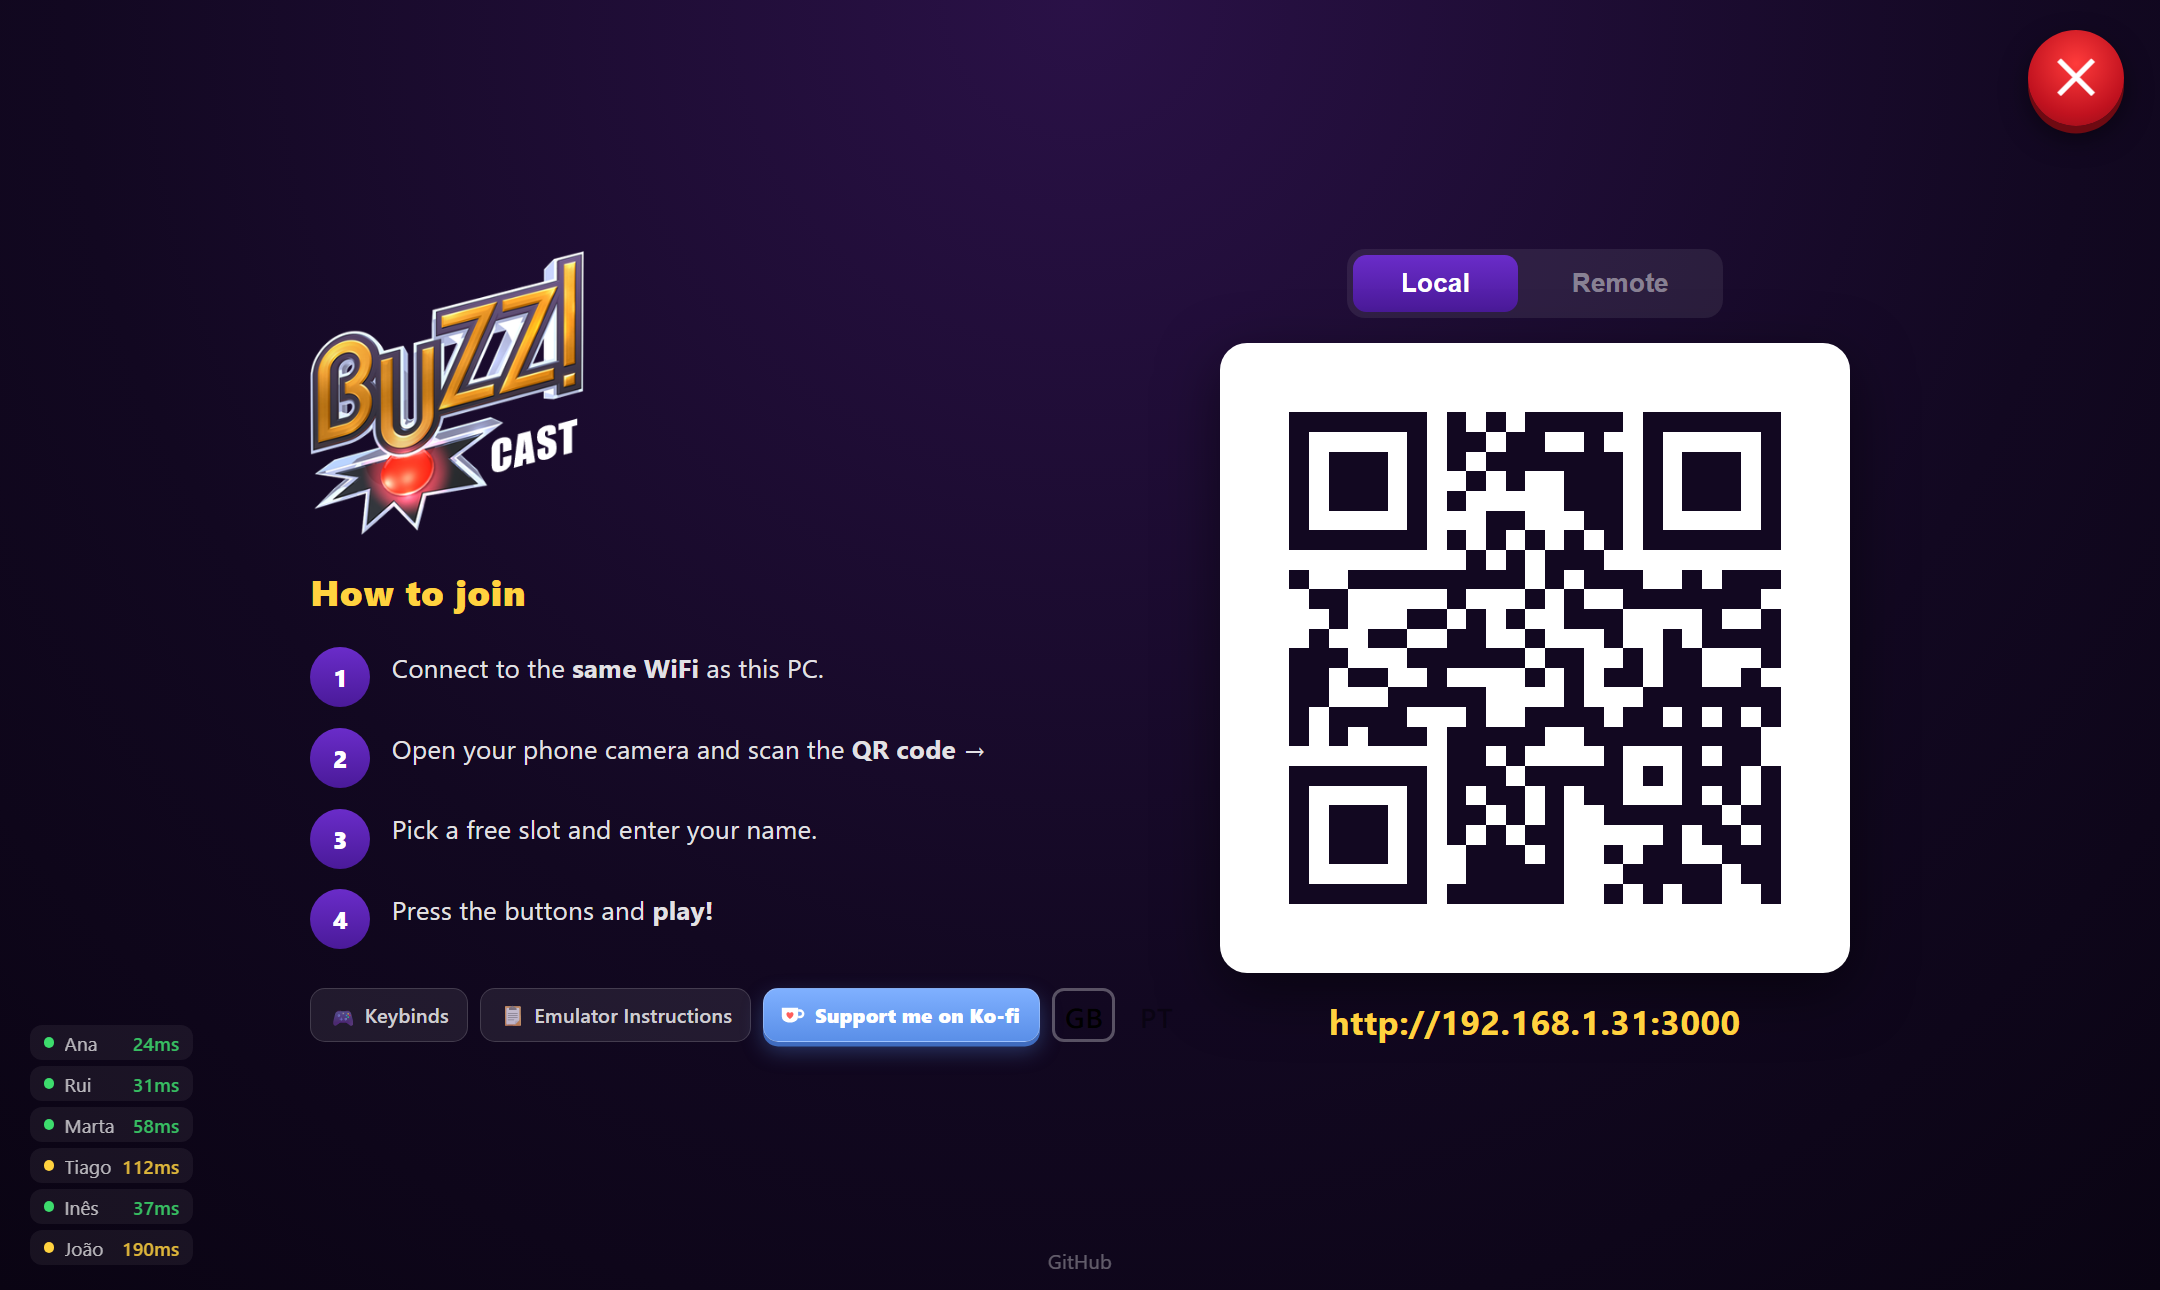
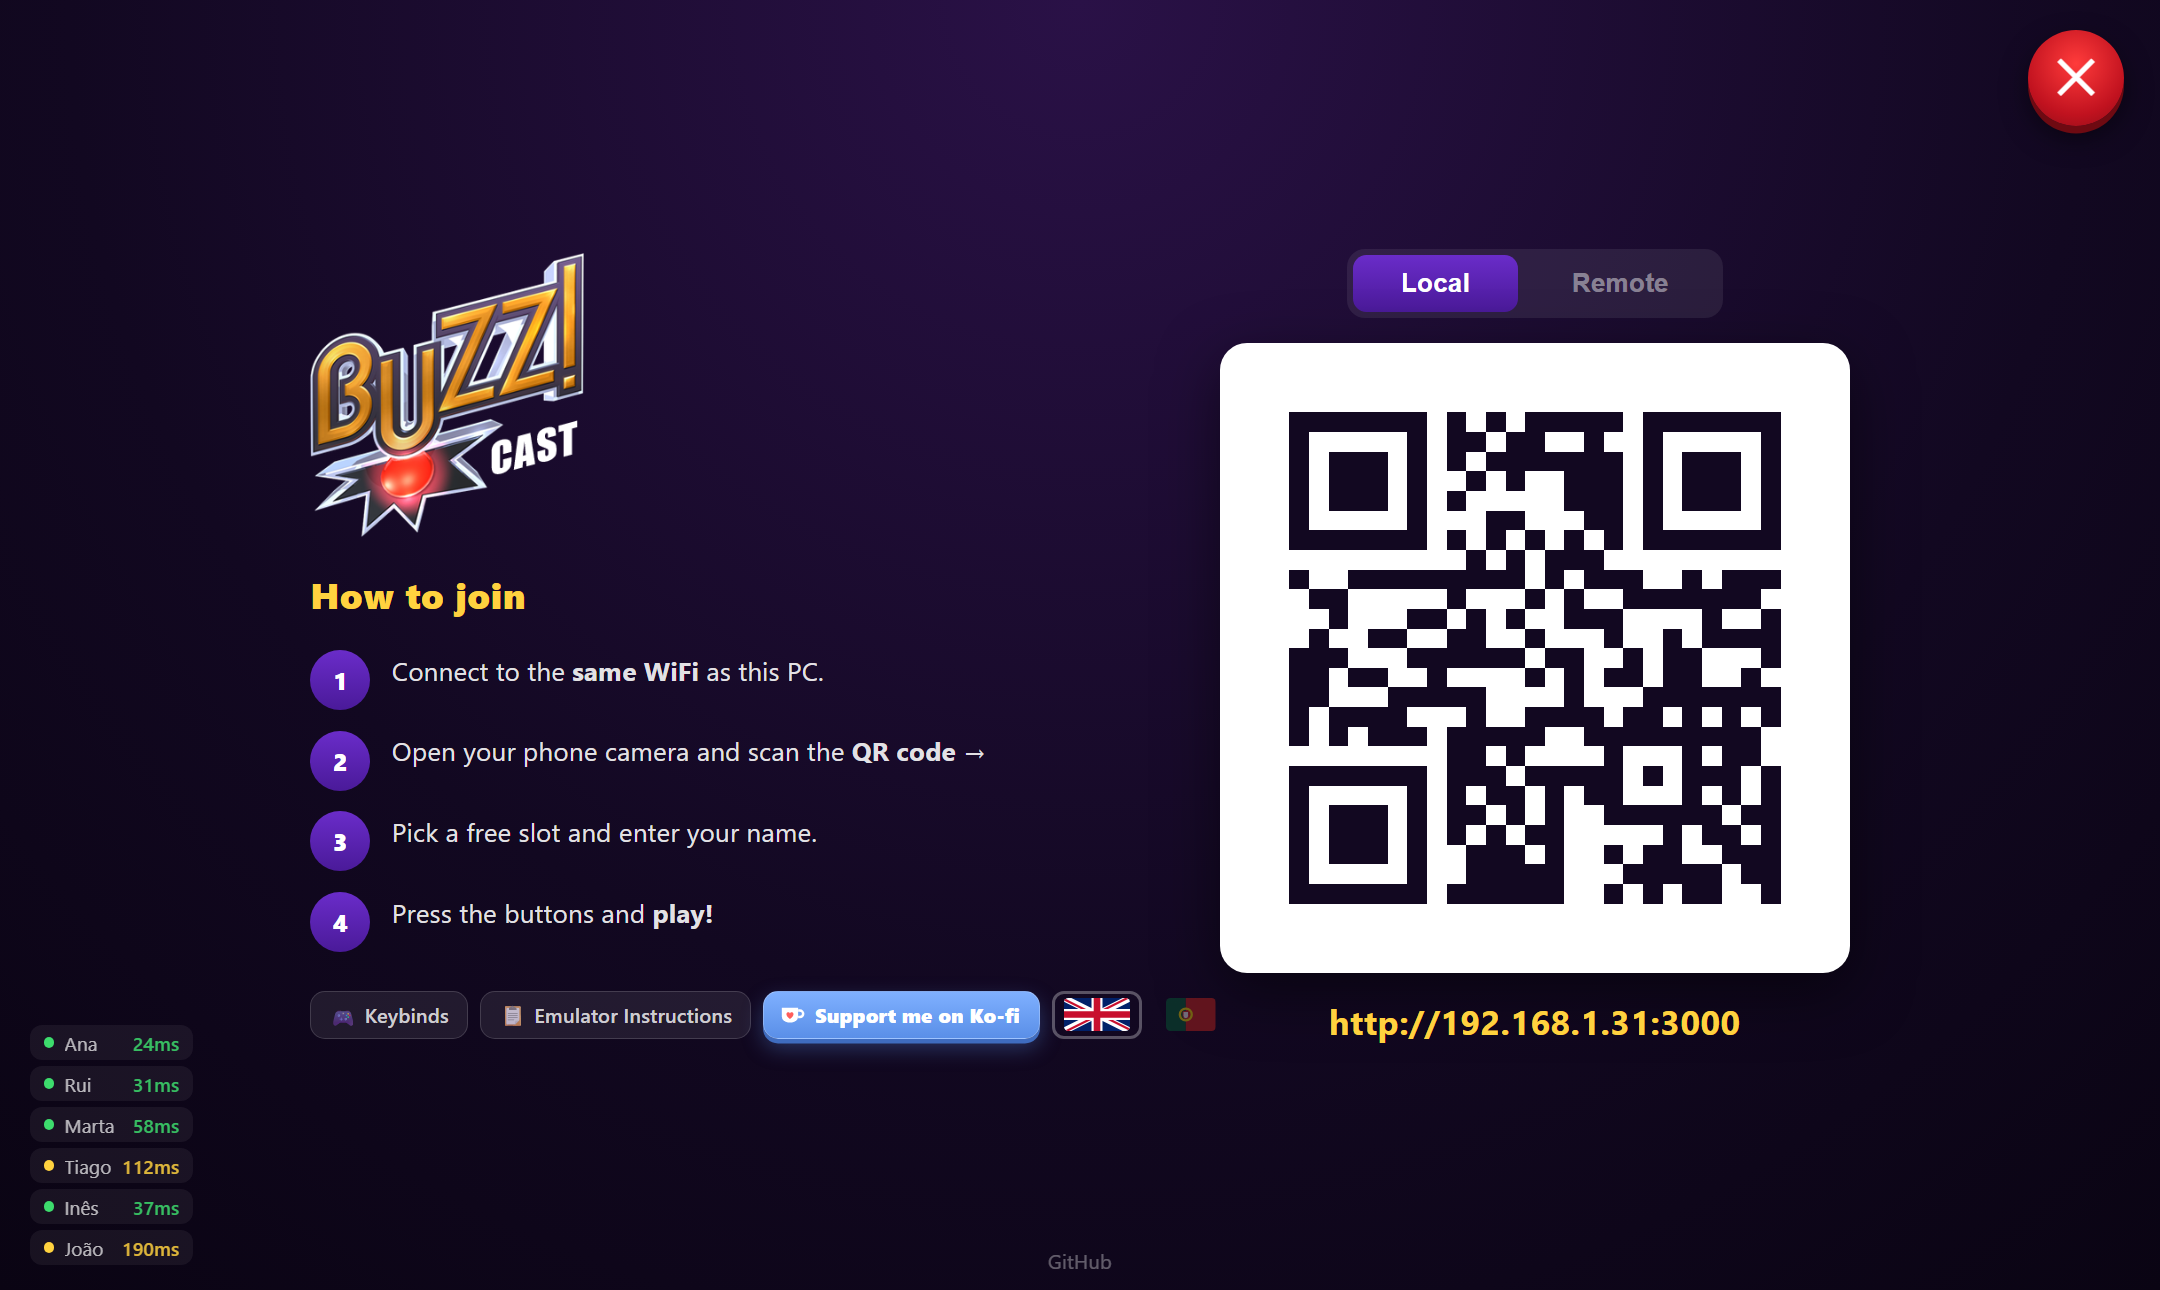
SVG language flags; README disclaimer; refreshed screenshots
- Replace the 🇬🇧/🇵🇹 emoji flags (rendered as "GB"/"PT" letters on
  Windows) with inline SVG flags on the host, lobby and instructions pages.
- README: Disclaimer section at the bottom (unofficial fan project; Buzz!
  name, logo and artwork belong to Sony / their owners, used in good faith
  for identification only; MIT covers BuzzCast's own code only; no game
  content distributed; takedown contact via issues). License section now
  points to it.
- Re-shot cover, phones and host screenshots with the new flags.

diff --git a/src/bun-server.js b/src/bun-server.js
@@ -273,6 +273,7 @@ async function hostPage() {
     .flag-btn { background: none; border: 2px solid transparent; cursor: pointer; font-size: clamp(1.1rem, 2vw, 1.6rem); padding: 3px 6px; border-radius: 8px; opacity: 0.4; transition: opacity 0.15s, border-color 0.15s; line-height: 1; }
     .flag-btn:hover { opacity: 0.8; }
     .flag-btn.active { opacity: 1; border-color: rgba(255,255,255,0.3); }
+    .flag-btn svg { display: block; height: clamp(16px, 1.8vw, 22px); width: auto; border-radius: 3px; }
     .close-btn { position: fixed; top: 20px; right: 24px; width: clamp(48px, 5vw, 64px); height: clamp(48px, 5vw, 64px); border-radius: 50%; border: none; background: radial-gradient(circle at 50% 35%, #ff3b3b, #c1121f 65%, #8e0d18 100%); box-shadow: 0 5px 0 #6e0a12, 0 8px 18px rgba(0,0,0,0.5); color: #fff; font-size: clamp(1.4rem, 2.4vw, 2rem); font-weight: 700; cursor: pointer; display: flex; align-items: center; justify-content: center; transition: transform 0.08s, box-shadow 0.08s; z-index: 100; line-height: 1; }
     .close-btn:active { transform: translateY(4px); box-shadow: 0 1px 0 #6e0a12, 0 3px 8px rgba(0,0,0,0.4); }
     .right { display: flex; flex-direction: column; align-items: center; gap: 2vh; flex-shrink: 0; }
@@ -379,8 +380,8 @@ async function hostPage() {
         <button class="pill-btn" id="kb-btn" onclick="openKeybinds()">🎮 <span id="kb-btn-label"></span></button>
         <button class="pill-btn" id="instr-btn" onclick="openInstructions()">📋 <span id="instr-btn-label"></span></button>
         <a class="kofi-btn" href="https://ko-fi.com/bacoinz" target="_blank" rel="noopener" title="ko-fi.com/bacoinz"><svg viewBox="0 0 24 24" width="18" height="18" aria-hidden="true"><path fill="#fff" d="M2.5 6h14.5v7.5a5.5 5.5 0 0 1-5.5 5.5h-3.5a5.5 5.5 0 0 1-5.5-5.5z"/><path fill="none" stroke="#fff" stroke-width="2.2" d="M17 8.5h1.6a2.9 2.9 0 0 1 0 5.8h-1.6"/><path fill="#ff5e5b" d="M9.75 16c-3.6-2.5-3.9-5.4-1.9-5.9.9-.2 1.6.3 1.9.9.3-.6 1-1.1 1.9-.9 2 .5 1.7 3.4-1.9 5.9z"/></svg><span id="kofi-btn-label"></span></a>
-        <button class="flag-btn" data-lang="en" onclick="setLang('en')" title="English">🇬🇧</button>
-        <button class="flag-btn" data-lang="pt" onclick="setLang('pt')" title="Português">🇵🇹</button>
+        <button class="flag-btn" data-lang="en" onclick="setLang('en')" title="English"><svg viewBox="0 0 60 30" width="36" height="18" aria-hidden="true"><clipPath id="uk-s"><path d="M0,0v30h60V0z"/></clipPath><clipPath id="uk-t"><path d="M30,15h30v15zv15H0zH0V0zV0h30z"/></clipPath><g clip-path="url(#uk-s)"><path d="M0,0v30h60V0z" fill="#012169"/><path d="M0,0L60,30M60,0L0,30" stroke="#fff" stroke-width="6"/><path d="M0,0L60,30M60,0L0,30" clip-path="url(#uk-t)" stroke="#C8102E" stroke-width="4"/><path d="M30,0v30M0,15h60" stroke="#fff" stroke-width="10"/><path d="M30,0v30M0,15h60" stroke="#C8102E" stroke-width="6"/></g></svg></button>
+        <button class="flag-btn" data-lang="pt" onclick="setLang('pt')" title="Português"><svg viewBox="0 0 30 20" width="27" height="18" aria-hidden="true"><rect width="12" height="20" fill="#046a38"/><rect x="12" width="18" height="20" fill="#da291c"/><circle cx="12" cy="10" r="3.6" fill="none" stroke="#ffe900" stroke-width="1.4"/><path d="M10.3 8.2h3.4v2.6a1.7 1.7 0 0 1-3.4 0z" fill="#fff" stroke="#da291c" stroke-width="0.6"/></svg></button>
       </div>
     </div>
     <div class="right">

diff --git a/public/index.html b/public/index.html
@@ -17,8 +17,8 @@
     <a href="https://github.com/bacoinz/buzzcast" target="_blank">GitHub</a>
     <span class="footer-sep">·</span>
     <span class="lang-switcher">
-      <button class="flag-btn" data-lang="en" onclick="setLang('en')" title="English">🇬🇧</button>
-      <button class="flag-btn" data-lang="pt" onclick="setLang('pt')" title="Português">🇵🇹</button>
+      <button class="flag-btn" data-lang="en" onclick="setLang('en')" title="English"><svg viewBox="0 0 60 30" width="36" height="18" aria-hidden="true"><clipPath id="uk-s"><path d="M0,0v30h60V0z"/></clipPath><clipPath id="uk-t"><path d="M30,15h30v15zv15H0zH0V0zV0h30z"/></clipPath><g clip-path="url(#uk-s)"><path d="M0,0v30h60V0z" fill="#012169"/><path d="M0,0L60,30M60,0L0,30" stroke="#fff" stroke-width="6"/><path d="M0,0L60,30M60,0L0,30" clip-path="url(#uk-t)" stroke="#C8102E" stroke-width="4"/><path d="M30,0v30M0,15h60" stroke="#fff" stroke-width="10"/><path d="M30,0v30M0,15h60" stroke="#C8102E" stroke-width="6"/></g></svg></button>
+      <button class="flag-btn" data-lang="pt" onclick="setLang('pt')" title="Português"><svg viewBox="0 0 30 20" width="27" height="18" aria-hidden="true"><rect width="12" height="20" fill="#046a38"/><rect x="12" width="18" height="20" fill="#da291c"/><circle cx="12" cy="10" r="3.6" fill="none" stroke="#ffe900" stroke-width="1.4"/><path d="M10.3 8.2h3.4v2.6a1.7 1.7 0 0 1-3.4 0z" fill="#fff" stroke="#da291c" stroke-width="0.6"/></svg></button>
     </span>
   </p>
 

diff --git a/public/instructions.html b/public/instructions.html
@@ -13,8 +13,8 @@
     <a href="index.html" class="back-arrow">←</a>
     <img src="buzz-logo.png" alt="BuzzCast" />
     <span class="lang-switcher">
-      <button class="flag-btn" data-lang="en" onclick="setLang('en')" title="English">🇬🇧</button>
-      <button class="flag-btn" data-lang="pt" onclick="setLang('pt')" title="Português">🇵🇹</button>
+      <button class="flag-btn" data-lang="en" onclick="setLang('en')" title="English"><svg viewBox="0 0 60 30" width="36" height="18" aria-hidden="true"><clipPath id="uk-s"><path d="M0,0v30h60V0z"/></clipPath><clipPath id="uk-t"><path d="M30,15h30v15zv15H0zH0V0zV0h30z"/></clipPath><g clip-path="url(#uk-s)"><path d="M0,0v30h60V0z" fill="#012169"/><path d="M0,0L60,30M60,0L0,30" stroke="#fff" stroke-width="6"/><path d="M0,0L60,30M60,0L0,30" clip-path="url(#uk-t)" stroke="#C8102E" stroke-width="4"/><path d="M30,0v30M0,15h60" stroke="#fff" stroke-width="10"/><path d="M30,0v30M0,15h60" stroke="#C8102E" stroke-width="6"/></g></svg></button>
+      <button class="flag-btn" data-lang="pt" onclick="setLang('pt')" title="Português"><svg viewBox="0 0 30 20" width="27" height="18" aria-hidden="true"><rect width="12" height="20" fill="#046a38"/><rect x="12" width="18" height="20" fill="#da291c"/><circle cx="12" cy="10" r="3.6" fill="none" stroke="#ffe900" stroke-width="1.4"/><path d="M10.3 8.2h3.4v2.6a1.7 1.7 0 0 1-3.4 0z" fill="#fff" stroke="#da291c" stroke-width="0.6"/></svg></button>
     </span>
   </div>
 

diff --git a/public/style.css b/public/style.css
@@ -136,6 +136,7 @@ body.lobby {
 
 .flag-btn:hover { opacity: 0.75; }
 .flag-btn.active { opacity: 1; border-color: rgba(255,255,255,0.3); }
+.flag-btn svg { display: block; height: 18px; width: auto; border-radius: 3px; }
 
 /* ─── Controlador ────────────────────────────────────── */
 body.controller {

diff --git a/README.md b/README.md
@@ -285,9 +285,7 @@ Known caveats: Linux is **X11-only** (Wayland not supported) and needs `libxtst6
 
 ## License
 
-BuzzCast is released under the [MIT License](LICENSE).
-
-BuzzCast is an unofficial fan project, not affiliated with or endorsed by Sony Interactive Entertainment. *Buzz!* is a trademark of Sony Interactive Entertainment; PCSX2 and RPCS3 belong to their respective projects.
+BuzzCast's source code is released under the [MIT License](LICENSE). The license covers BuzzCast's own code only — see the [disclaimer](#disclaimer) below for the *Buzz!* name, logo and artwork.
 
 ---
 
@@ -300,3 +298,17 @@ BuzzCast is free and open source. If it made your party night better, you can bu
 ---
 
 Built with [Bun](https://bun.sh).
+
+---
+
+## Disclaimer
+
+BuzzCast is an **unofficial, free, non-commercial fan project**. It is not affiliated with, endorsed, sponsored or approved by Sony Interactive Entertainment, the developers of the *Buzz!* games, or the PCSX2 and RPCS3 projects.
+
+- ***Buzz!*, the *Buzz!* logo and all related names, artwork and imagery are trademarks and/or copyrighted works of Sony Interactive Entertainment or their respective owners.** The author of BuzzCast does not own them and claims no rights over them.
+- The BuzzCast logo and the buzzer graphics are based on the *Buzz!* branding. They are used in good faith, only to identify the games this tool works with, with no intent to infringe any rights or to suggest an official connection.
+- The MIT License applies **only to BuzzCast's own source code**. It grants no rights to the *Buzz!* name, logo or artwork. PCSX2, RPCS3, PlayStation and all other trademarks belong to their respective owners.
+- BuzzCast does not include or distribute any games, BIOS files or other copyrighted game content. You need your own legally obtained copies.
+- The software is provided "as is", without warranty of any kind (see the [LICENSE](LICENSE)).
+
+If you hold rights to any of this material and want it changed or removed, please [open an issue](https://github.com/bacoinz/buzzcast/issues) and it will be taken care of promptly.
